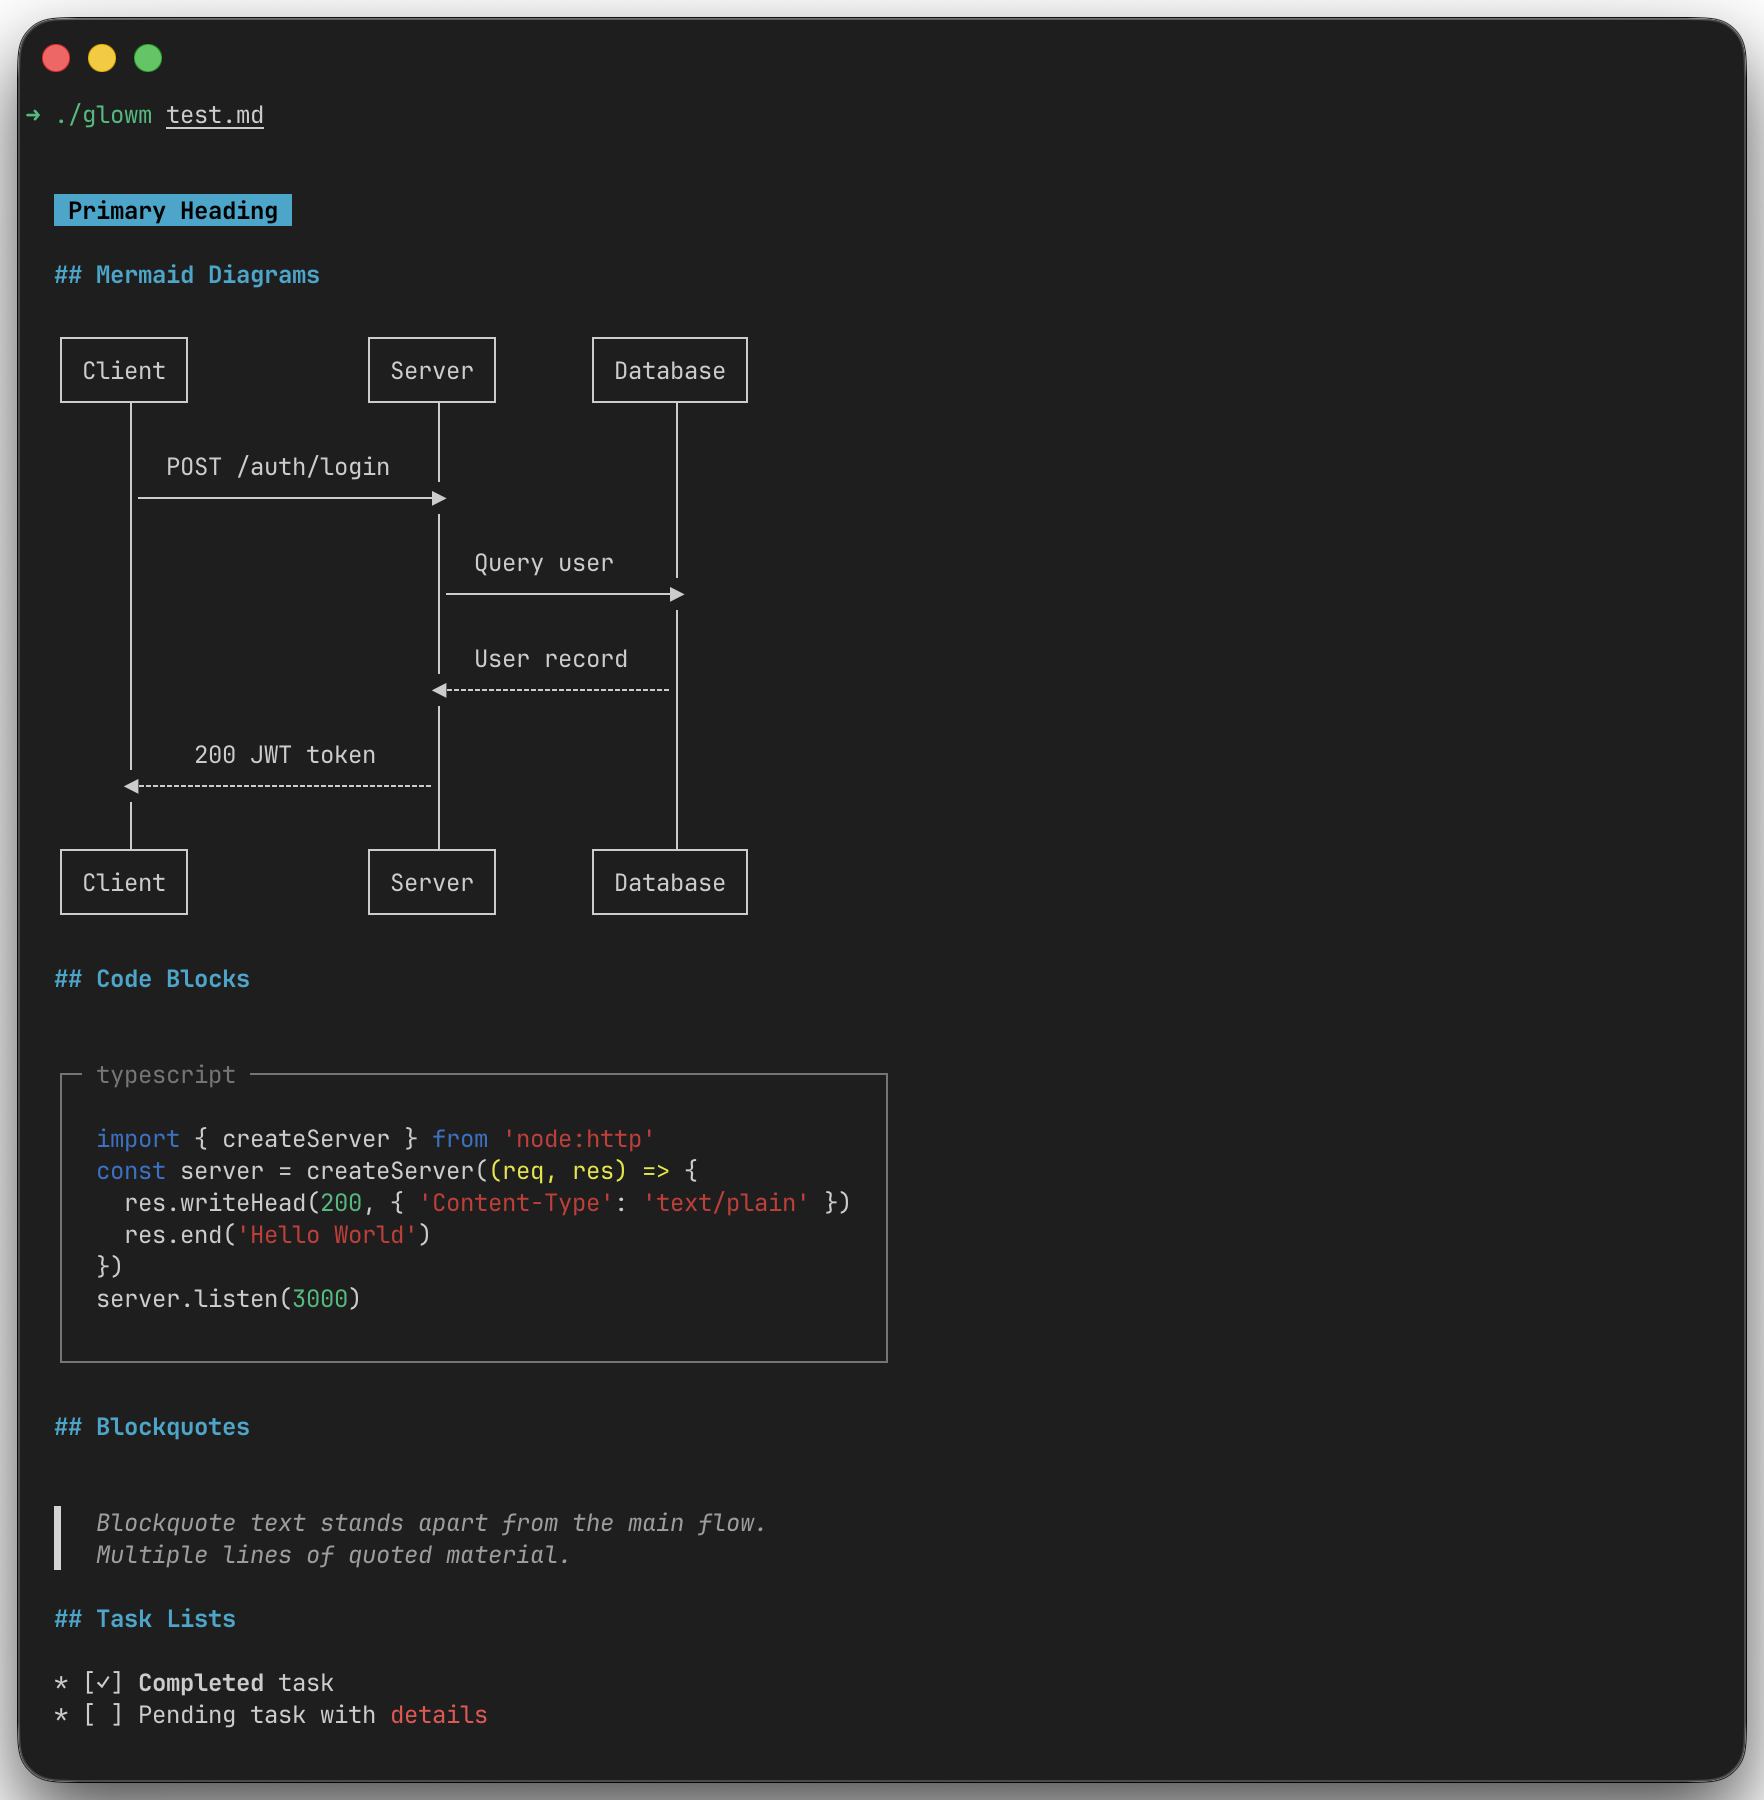
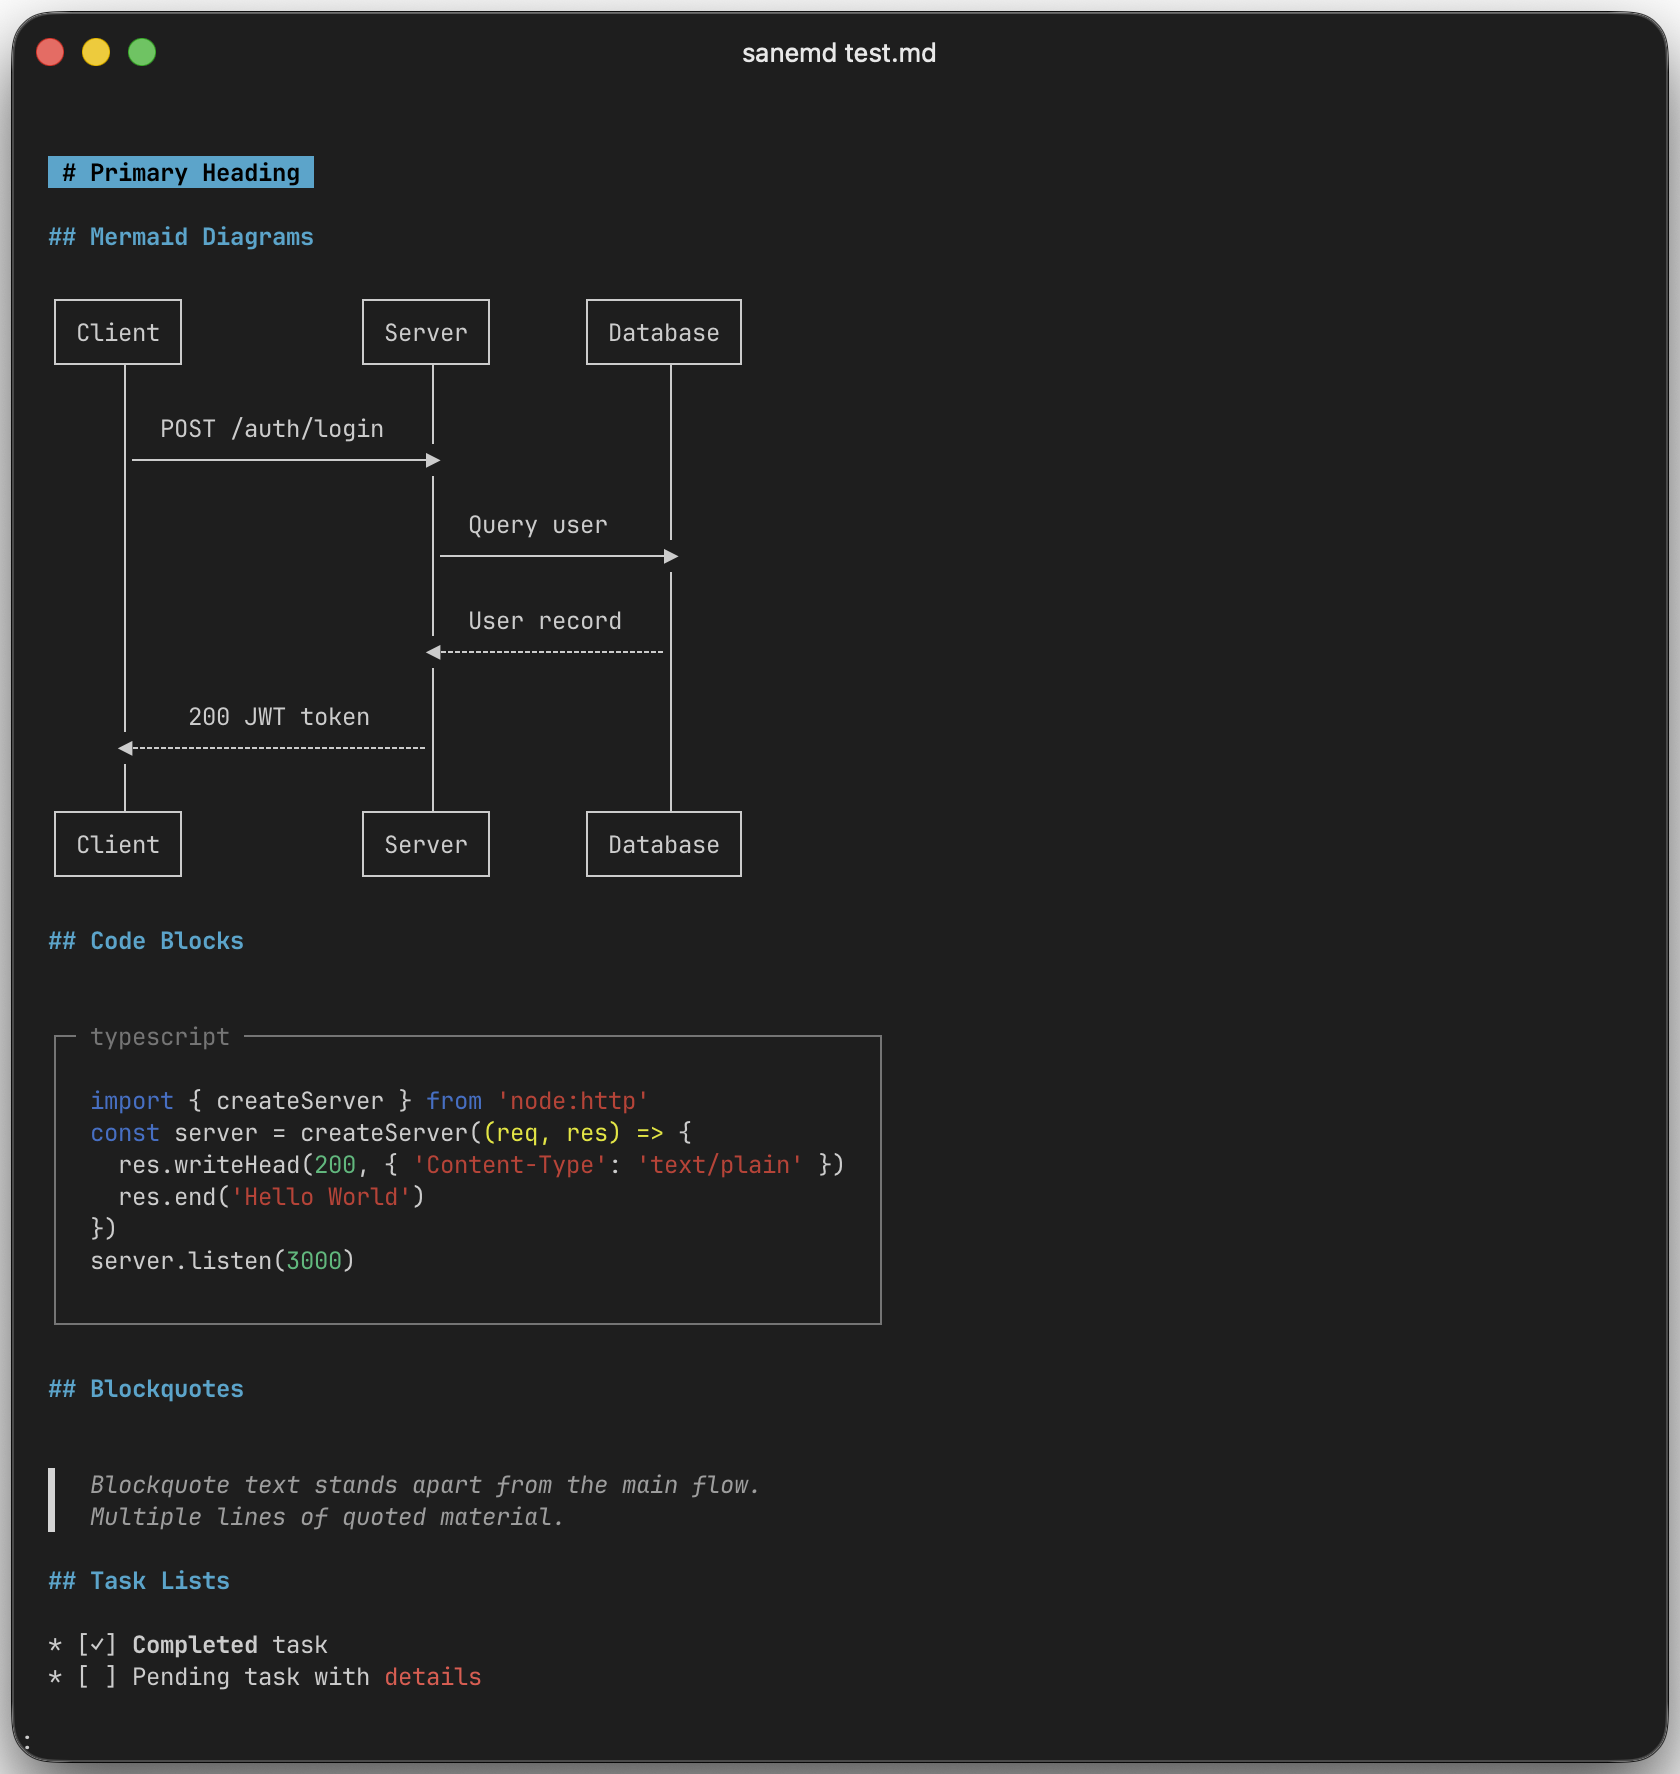
docs: update readme with sticky headers section and formatting

diff --git a/README.md b/README.md
@@ -7,7 +7,7 @@ Terminal markdown renderer with mermaid diagram support.
 - Syntax-highlighted code blocks with box borders
 - Less-style pager with search and sticky headers
 
-![preview](preview.png)
+<img src="preview.png" alt="Preview of sanemd rendering a markdown document with various features" width="600"/>
 
 ## Usage
 
@@ -18,6 +18,9 @@ sanemd README.md
 # From stdin
 cat README.md | sanemd
 echo "# Hello **world**" | sanemd
+
+# Bypass pager
+sanemd --no-pager README.md
 ```
 
 ## Features
@@ -30,20 +33,11 @@ Converts mermaid code blocks to ASCII art using [beautiful-mermaid](https://gith
 
 Renders images directly in the terminal using [terminal-image](https://github.com/sindresorhus/terminal-image). Uses native terminal protocols (iTerm2, Kitty, Sixel) when available, falls back to ANSI block characters.
 
-```markdown
-![Screenshot](./preview.png)
-```
+### Sticky Headers
 
-- Local files: resolved relative to markdown file location
-- Remote URLs: fetched and rendered inline
-- Fallback: displays "alt → path (reason)" when rendering fails
+When scrolled past a heading, ancestor headers appear dimmed at the top of the viewport, showing your position in the document hierarchy. For example, when reading content under an H3, the parent H2 and H1 are displayed above with a separator line.
 
-````markdown
-```mermaid
-graph LR
-  A --> B --> C
-```
-````
+<img src="sticky-headers.png" alt="Screenshot showing sticky headers in sanemd, with H1 and H2 displayed at the top of the viewport while reading an H3 section" width="600"/>
 
 ### Syntax Highlighting
 
@@ -112,33 +106,19 @@ For long documents, sanemd automatically activates a `less`-like pager when:
 
 ### Keyboard Shortcuts
 
-| Key | Action |
-|-----|--------|
-| `j` / `↓` | Scroll down one line |
-| `k` / `↑` | Scroll up one line |
-| `Space` / `f` | Page down |
-| `b` | Page up |
-| `d` | Half page down |
-| `u` | Half page up |
-| `g` | Go to top |
-| `G` | Go to bottom |
-| `/` | Search forward |
-| `?` | Search backward |
-| `n` | Next header |
-| `N` | Previous header |
-| `=` | Show position info |
-| `q` | Quit |
-
-### Sticky Headers
-
-When scrolled past a heading, ancestor headers appear dimmed at the top of the viewport, showing your position in the document hierarchy. For example, when reading content under an H3, the parent H2 and H1 are displayed above with a separator line.
-
-### Bypassing the Pager
-
-```bash
-# Use --no-pager flag
-sanemd --no-pager README.md
-
-# Piping always bypasses pager
-sanemd README.md | head -50
-```
+| Key           | Action               |
+| ------------- | -------------------- |
+| `j` / `↓`     | Scroll down one line |
+| `k` / `↑`     | Scroll up one line   |
+| `Space` / `f` | Page down            |
+| `b`           | Page up              |
+| `d`           | Half page down       |
+| `u`           | Half page up         |
+| `g`           | Go to top            |
+| `G`           | Go to bottom         |
+| `/`           | Search forward       |
+| `?`           | Search backward      |
+| `n`           | Next header          |
+| `N`           | Previous header      |
+| `=`           | Show position info   |
+| `q`           | Quit                 |